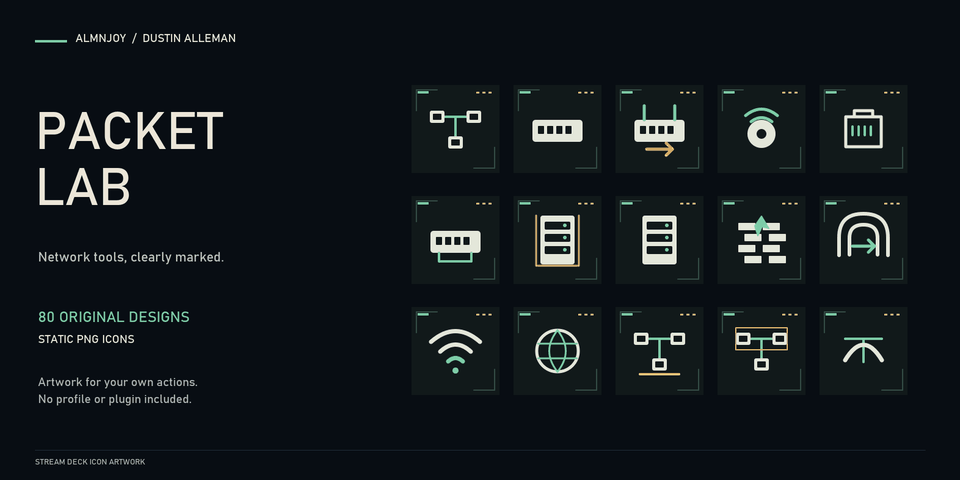
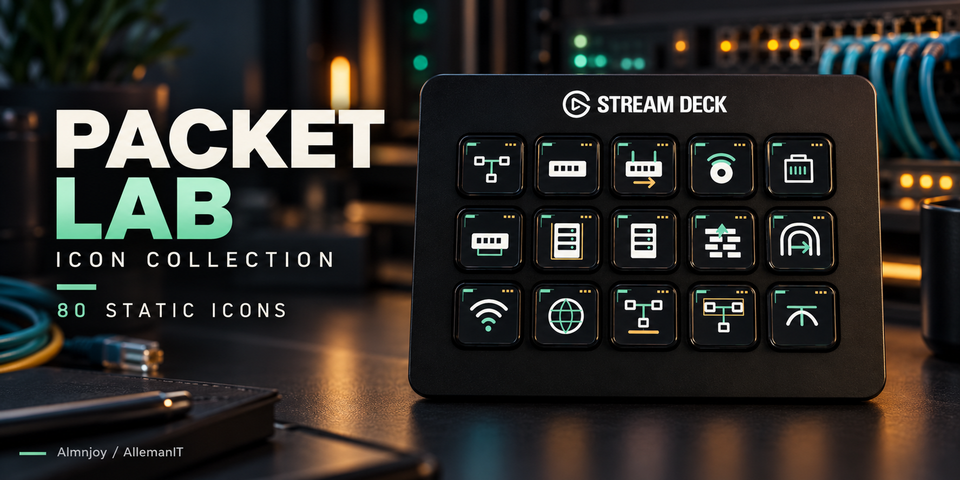
Refresh all eleven published Marketplace covers

diff --git a/src/data/marketplace.ts b/src/data/marketplace.ts
@@ -35,7 +35,7 @@ export const products: Product[] = [
     title: 'Quest Journal',
     category: 'Icons',
     tagline: '64 static designs for RPG players and tabletop hosts: quest journal, map, party, ready check, backpack, dice.',
-    alt: 'Quest Journal cover: fifteen Stream Deck keys in charcoal with ivory equipment silhouettes and muted gold, showing a book, scroll, map, compass, pin, party, ready check, backpack, chest, key, door, tent, bed, cloak and boot.',
+    alt: 'Quest Journal artwork displayed on a fifteen-key Stream Deck in a themed photographic desk scene.',
     note: 'Original artwork, not affiliated with any game publisher.',
     price: '$4.99',
     url: 'https://marketplace.elgato.com/product/quest-journal-c434f149-c56a-4851-90d3-163ec5b77ec7',
@@ -46,7 +46,7 @@ export const products: Product[] = [
     title: 'Prompt Bench',
     category: 'Icons',
     tagline: '56 static designs for writers and educators who arrange their own AI-assisted workflows: summarize, rewrite, translate, dictate, review.',
-    alt: 'Prompt Bench cover: fifteen Stream Deck keys with cream folded-paper symbols on ink blue, in violet and apricot, showing summarize, rewrite, translate, question, idea, compare, quote, sources, library, dictate, approve, search, duplicate, reject and notes.',
+    alt: 'Prompt Bench artwork displayed on a fifteen-key Stream Deck in a themed photographic desk scene.',
     price: '$4.99',
     url: 'https://marketplace.elgato.com/product/prompt-bench-007f17e6-d576-4cb4-a705-437b049908b8',
     status: 'live',
@@ -56,7 +56,7 @@ export const products: Product[] = [
     title: 'Pocket Gremlins',
     category: 'Icons',
     tagline: '24 static designs and 24 animated alternatives of an original sprout-eared creature: coffee, be right back, quiet please, rage pause, applause.',
-    alt: 'Pocket Gremlins cover: fifteen Stream Deck keys on plum, each with an ivory sprout-eared creature holding coffee, a clock, a muted microphone, a pause bar, a star, applause, a phone, sleep, a warning, notes, a camera, music, bread, a heart and a cross.',
+    alt: 'Pocket Gremlins artwork displayed on a fifteen-key Stream Deck in a themed photographic desk scene.',
     note: 'Animations are decorative and run independently of actions.',
     price: '$3.99',
     url: 'https://marketplace.elgato.com/product/pocket-gremlins-44745cc4-856f-4e4f-9888-8dcfe5fb053b',
@@ -67,7 +67,7 @@ export const products: Product[] = [
     title: 'Meeting Mode',
     category: 'Icons',
     tagline: '48 static designs for remote workers and educators: microphone, camera, screen share, hand raise, agenda, captions, breaks.',
-    alt: 'Meeting Mode cover: fifteen Stream Deck keys in soft charcoal with cream, sage green and coral symbols for microphone, camera, hand raise, screen share, participants, agenda, notes, calendar, chat, captions, headphones, volume, record and leave.',
+    alt: 'Meeting Mode artwork displayed on a fifteen-key Stream Deck in a themed photographic desk scene.',
     price: '$3.99',
     url: 'https://marketplace.elgato.com/product/meeting-mode-e4ed008e-bc4b-45b5-806d-d1b395202f65',
     status: 'live',
@@ -77,7 +77,7 @@ export const products: Product[] = [
     title: 'Long Haul',
     category: 'Icons',
     tagline: '72 static designs for truck simulator players: wipers, headlights, hazards, parking brake, cruise, retarder, trailer, coupling.',
-    alt: 'Long Haul cover: fifteen Stream Deck keys in warm enamel panels with ivory controls and brass accents, showing engine, ignition, headlights, beams, hazards, wipers, horn, parking brake, differential lock, speedometer, retarder, axles, trailer and gear shift.',
+    alt: 'Long Haul artwork displayed on a fifteen-key Stream Deck in a themed photographic desk scene.',
     note: 'Original artwork, not affiliated with any game publisher.',
     price: '$4.99',
     url: 'https://marketplace.elgato.com/product/long-haul-1a827cd7-170c-4a42-bdd7-2dd492abc0f0',
@@ -88,7 +88,7 @@ export const products: Product[] = [
     title: 'Home Glow',
     category: 'Icons',
     tagline: '64 static designs and 24 animated alternatives for room and lighting control: desk lights, reading, cinema, curtains, fan, heating.',
-    alt: 'Home Glow cover: fifteen Stream Deck keys in deep indigo with opal lamps and peach light spill, showing desk lamps, pendant lights, a reading lamp, a screen, a heater, brightness, bulbs, curtains, a ceiling fan and a radiator.',
+    alt: 'Home Glow artwork displayed on a fifteen-key Stream Deck in a themed photographic desk scene.',
     note: 'Animations are decorative and run independently of actions.',
     price: '$5.99',
     url: 'https://marketplace.elgato.com/product/home-glow-d4706fa6-8ec8-4bbb-b845-7e3aaa4019d0',
@@ -99,7 +99,7 @@ export const products: Product[] = [
     title: 'Hearth Pixels',
     category: 'Icons',
     tagline: '48 static designs and 48 animated alternatives in original pixel art: backpack, crafting, map, journal, lantern, watering can, chest.',
-    alt: 'Hearth Pixels cover: fifteen Stream Deck keys in forest green with cream, moss and peach pixel art, showing a backpack, a tool, a map, a book, a bag, a watering can, a chest, a sign, music, a bed, a coffee cup, a seedling, a leaf, a flower and a tree.',
+    alt: 'Hearth Pixels artwork displayed on a fifteen-key Stream Deck in a themed photographic desk scene.',
     note: 'Original artwork, not affiliated with any game publisher. Animations are decorative.',
     price: '$5.99',
     url: 'https://marketplace.elgato.com/product/hearth-pixels-de07261b-2ac5-487f-b2a6-15110b2ba069',
@@ -110,7 +110,7 @@ export const products: Product[] = [
     title: 'Cutroom',
     category: 'Icons',
     tagline: '80 static designs for video editors and film students: blade, ripple trim, roll, slip, markers, in and out points, snapping, export.',
-    alt: 'Cutroom cover: fifteen Stream Deck keys in ink black with cream clip panels, cyan highlights and chartreuse cut marks, showing blade, ripple trim, roll, slip, slide, select, transform, in point, out point, marker, add marker, list, magnet snapping, link and unlink.',
+    alt: 'Cutroom artwork displayed on a fifteen-key Stream Deck in a themed photographic desk scene.',
     price: '$5.99',
     url: 'https://marketplace.elgato.com/product/cutroom-34b38344-e275-4e11-af93-afb055873edc',
     status: 'live',
@@ -120,7 +120,7 @@ export const products: Product[] = [
     title: 'Packet Lab',
     category: 'Icons',
     tagline: '80 static designs for network engineers, homelab builders and IT support: DNS lookup, ping, packet capture, subnet planning, VPN, racks.',
-    alt: 'Packet Lab cover: fifteen Stream Deck keys on graphite with ivory topology symbols, mint indicators and amber details, showing a topology tree, a switch, a router, a disc, a rack shelf, a patch panel, a server, a stack, a VPN tunnel, wifi, a globe and network maps.',
+    alt: 'Packet Lab artwork displayed on a fifteen-key Stream Deck in a themed photographic desk scene.',
     price: '$5.99',
     url: 'https://marketplace.elgato.com/product/packet-lab-45717b3a-be56-4aa6-ac42-74fde83d2f86',
     status: 'live',
@@ -130,7 +130,7 @@ export const products: Product[] = [
     title: 'WARDOGS - Tactical Circuit',
     category: 'Profiles',
     tagline: 'Tactical Circuit artwork for WARDOGS on a 15-key Stream Deck: infantry, vehicle, helicopter and building sets, ivory symbols on orange and blue circuits.',
-    alt: 'WARDOGS Tactical Circuit cover: fifteen badge icons in ivory with orange and blue circuit bursts, labelled infantry, vehicles, heli, building, map, inventory, squad, local, tip and bribe, reject tip, fire mode, sights, bipod, map minus and map plus.',
+    alt: 'WARDOGS - Tactical Circuit artwork displayed on a fifteen-key Stream Deck in a themed photographic desk scene.',
     note: 'Independent ALMNJOY work, not an official WARDOGS, BULKHEAD or Elgato product. Button images are static and do not report live game state.',
     price: '$1.99',
     url: 'https://marketplace.elgato.com/product/wardogs-tactical-circuit-f5fee548-35a8-4015-92a6-b42bf4534821',
@@ -142,7 +142,7 @@ export const products: Product[] = [
     title: 'Range Finder Companion',
     category: 'Plugins',
     tagline: 'Map coordinates, bearing, distance and supply requests on one Stream Deck key for WARDOGS players, with 15-key and XL profiles, three styles, calibration reset and input troubleshooting.',
-    alt: 'Range Finder Companion cover: the Ultimate Artillery Deck layout, fifteen illustrative key states in amber on dark green showing position and target set, bearing and range, coordinates reset, open map, request ammo, request supplies, recenter, zoom, fire, Steam status, news and calibration.',
+    alt: 'Range Finder Companion artwork displayed on a fifteen-key Stream Deck in a themed photographic desk scene.',
     note: 'Independent companion for WARDOGS, not an official game product. Range uses captured coordinates and the configured map scale; ballistic elevation is not calculated.',
     price: '$3.99',
     status: 'live',
